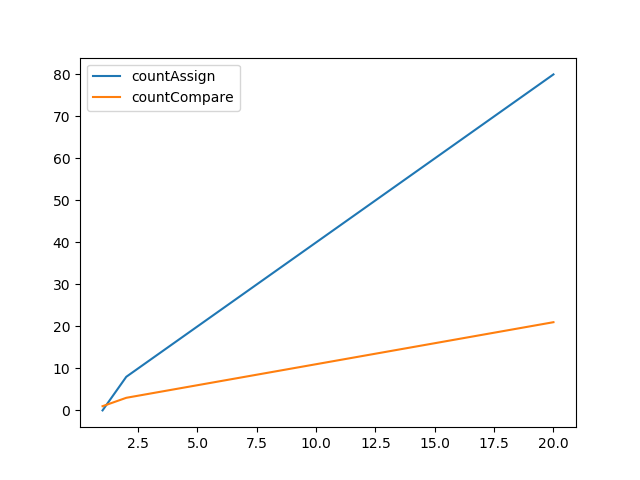
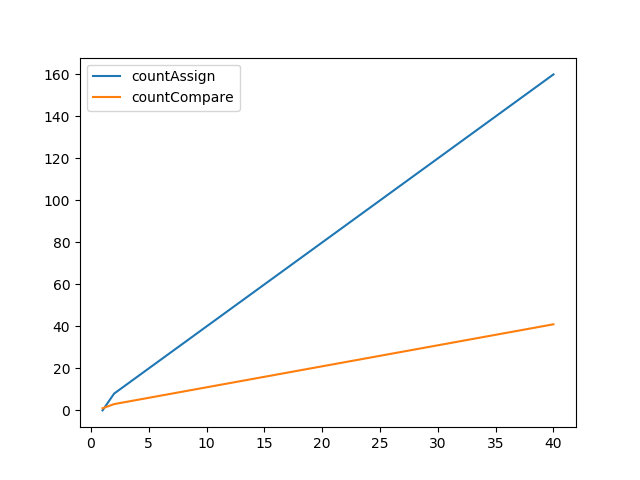
Mod Ex1

diff --git a/Ex01/src/fibonacci.cpp b/Ex01/src/fibonacci.cpp
@@ -42,7 +42,6 @@ string toString(int a, int b, int c, int d){
 }
 
 int main(){
-    int arr[20] = {1, 2, 3, 4, 5, 6, 7, 8, 9, 10, 11, 12, 13, 14, 15, 16, 17, 18, 19, 20};
     int countAssign;
     int countCompare;
 
@@ -51,7 +50,7 @@ int main(){
     myfile.open("reportcard.csv", ios::out | ios::app); 
     myfile << "n,sum,countAssign,countCompare\n";
 
-    for (int n: arr){
+    for (int n=1; n<=40; n+=1){
         countCompare = 0;
         countAssign = 0;
         int sum = Fibonacci(n, countAssign, countCompare);
